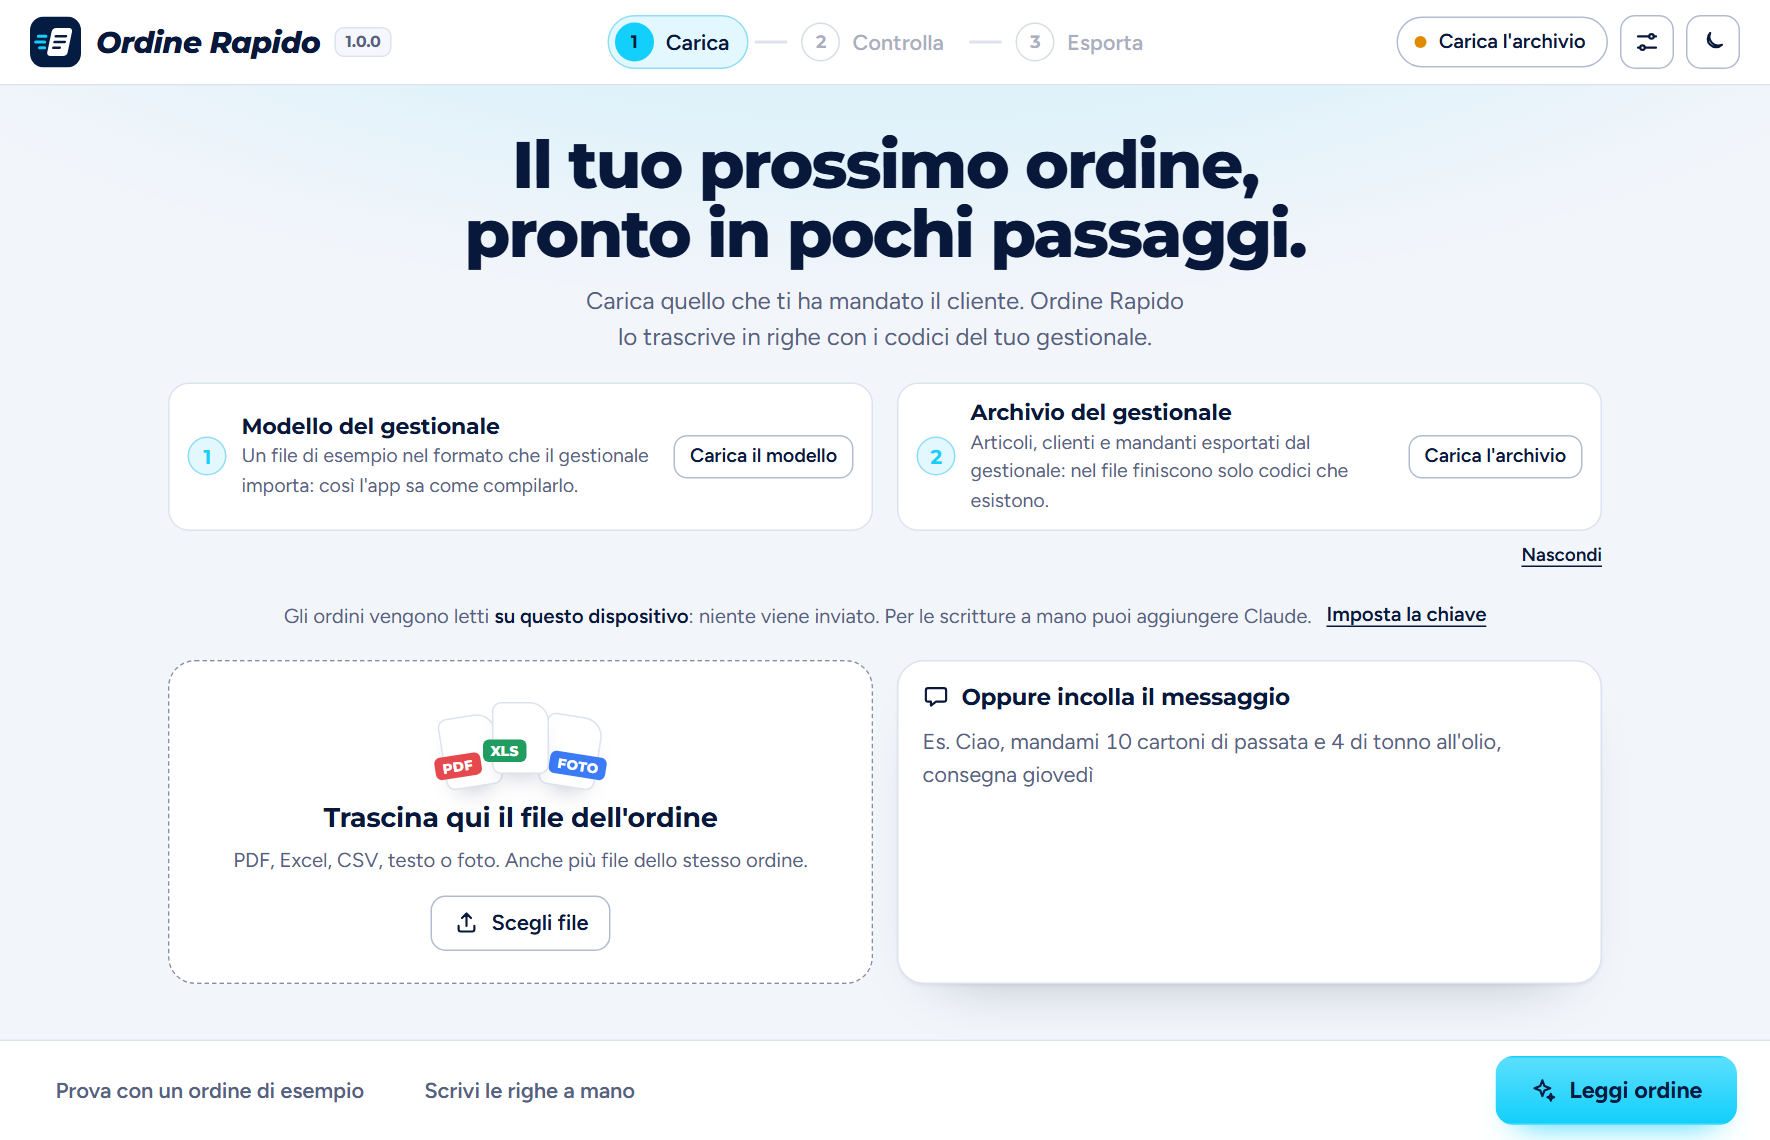
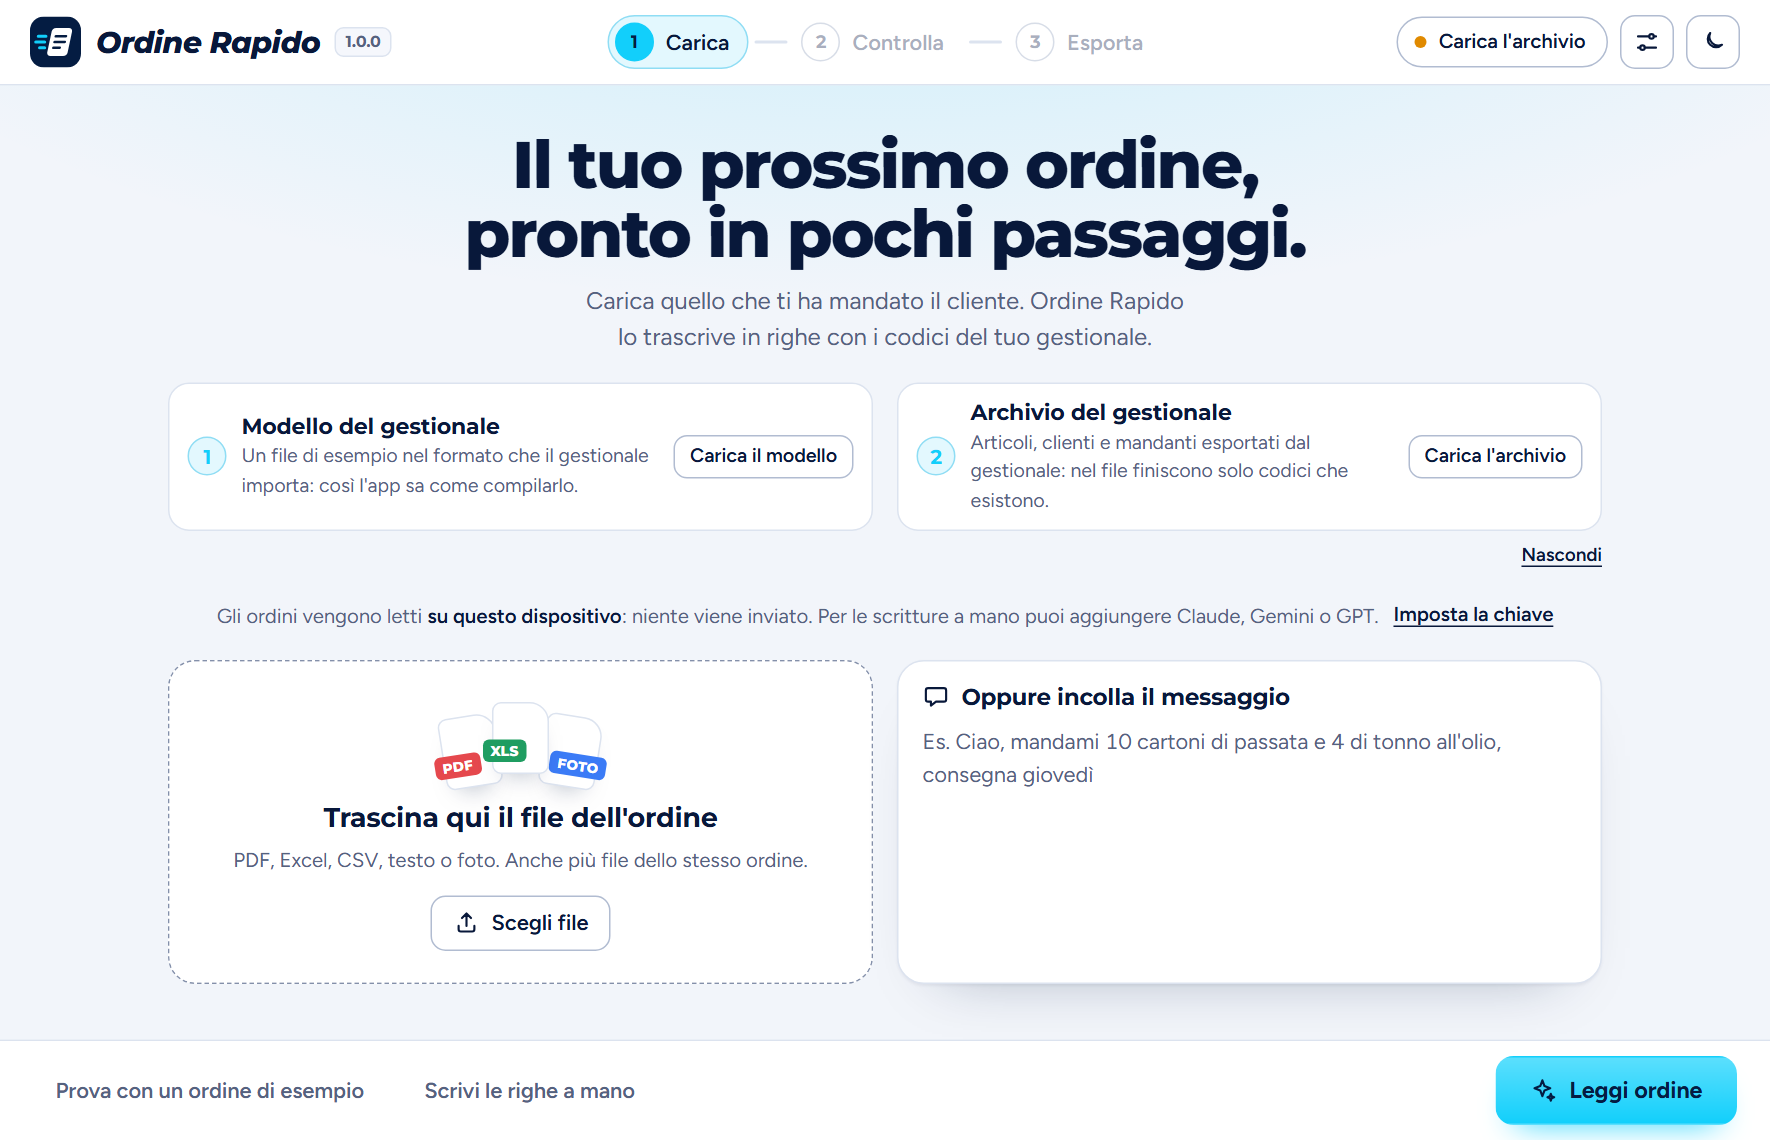
Sito: capitolo sulle ricette dei clienti, Claude Gemini o GPT, lettura automatica
Nuovo capitolo «Ogni ordine che esporti le insegna a leggere il prossimo», con
una ricetta d'esempio. Il riquadro sull'intelligenza artificiale presenta i tre
servizi e la modalità automatica; dati, domande, menu e descrizione aggiornati.
Schermate rifatte sull'app attuale.

Changed region(s): [[0.1243, 0.5219, 0.8701, 0.5526]]

diff --git a/sito/public/index.html b/sito/public/index.html
@@ -12,7 +12,7 @@
 <meta charset="utf-8">
 <meta name="viewport" content="width=device-width, initial-scale=1">
 <title>Ordine Rapido · dall'ordine del cliente al file per il gestionale</title>
-<meta name="description" content="Ordine Rapido trasforma gli ordini dei clienti (PDF, Excel, messaggi, foto) nel file che il tuo gestionale importa, con soli codici che esistono già. Legge sul tuo computer, senza chiave API. Gratuito e libero.">
+<meta name="description" content="Ordine Rapido trasforma gli ordini dei clienti (PDF, Excel, messaggi, foto) nel file che il tuo gestionale importa, con soli codici che esistono già. Legge sul tuo computer, senza chiave API, e impara da ogni ordine. Claude, Gemini o GPT a scelta. Gratuito e libero.">
 <meta name="color-scheme" content="light dark">
 <meta name="theme-color" content="#F6F3EC">
 <link rel="icon" href="marchio.svg" type="image/svg+xml">
@@ -117,6 +117,17 @@ h1 span{display:block;color:var(--muted);font-weight:700}
 .stato b{font:600 15.5px var(--body);color:var(--ink)}
 .stato p{grid-column:2;font-size:14.5px;color:var(--muted);line-height:1.45}
 
+.ricetta{background:var(--card);border:1px solid var(--line);border-radius:16px;box-shadow:var(--shadow);overflow:hidden;transform:rotate(.6deg)}
+.ricetta header{display:flex;justify-content:space-between;align-items:baseline;gap:10px;flex-wrap:wrap;padding:14px 18px;background:var(--ink);color:var(--paper)}
+.ricetta header b{font:800 15.5px var(--display);letter-spacing:-.01em}
+.ricetta header span{font:500 12.5px var(--mono);color:var(--cyan)}
+.ricetta ul{list-style:none;margin:0;padding:8px 18px}
+.ricetta li{display:grid;grid-template-columns:5.5em 1.4em minmax(0,1fr);align-items:center;padding:9px 0;border-bottom:1px dashed var(--line);font-size:15.5px;color:var(--ink)}
+.ricetta li:last-child{border-bottom:0}
+.ricetta code{font:600 14px var(--mono);background:var(--paper-2);border:1px solid var(--line);border-radius:6px;padding:2px 7px;justify-self:start}
+.ricetta i{font-style:normal;color:var(--cyan-ink);font-weight:700}
+.ricetta em{color:var(--muted)}
+.ricetta footer{padding:12px 18px;border-top:1px solid var(--line);background:var(--paper-2);font-size:14px;color:var(--muted)}
 .passi{display:grid;grid-template-columns:repeat(3,minmax(0,1fr));gap:22px;margin-top:40px}
 .passi figure{margin:0}
 .passi img{border:1px solid var(--line);border-radius:12px;box-shadow:var(--shadow);background:var(--card)}
@@ -189,7 +200,7 @@ footer.fine .marchio img{width:28px;height:28px}
     <a class="marchio" href="#" aria-label="Ordine Rapido, inizio pagina"><img src="marchio.svg" alt="" width="38" height="38">Ordine Rapido</a>
     <nav aria-label="Sezioni">
       <a href="#come">Come lavora</a>
-      <a href="#legge">Senza chiave API</a>
+      <a href="#impara">Impara</a>
       <a href="#averla">Come averla</a>
       <a href="#domande">Domande</a>
     </nav>
@@ -209,7 +220,7 @@ footer.fine .marchio img{width:28px;height:28px}
       <dl class="fatti">
         <div><dt>0</dt><dd>chiavi API da comprare: legge da sola, sul tuo computer</dd></div>
         <div><dt>0</dt><dd>codici inventati: nel file solo quelli del tuo archivio</dd></div>
-        <div><dt>3</dt><dd>schermate, sempre le stesse: carica, controlla, esporta</dd></div>
+        <div><dt>1</dt><dd>ordine controllato basta perché il prossimo dello stesso cliente si legga da solo</dd></div>
       </dl>
     </div>
 
@@ -320,8 +331,36 @@ footer.fine .marchio img{width:28px;height:28px}
     </div>
   </section>
 
-  <section class="cap" id="legge" aria-labelledby="h-legge">
+  <section class="cap" id="impara" aria-labelledby="h-impara">
     <div class="num" aria-hidden="true">04</div>
+    <div>
+      <h2 id="h-impara">Ogni ordine che esporti le insegna a leggere il prossimo.</h2>
+      <p class="attacco">Un cliente manda gli ordini quasi sempre nello stesso modo. Quando esporti un suo ordine, Ordine Rapido confronta il documento con il risultato che hai controllato e se ne ricorda la ricetta. Dal secondo ordine in poi, quel cliente si legge da solo.</p>
+      <div class="due">
+        <div class="ricetta" role="img" aria-label="Esempio di ricetta di un cliente: le colonne del suo documento e che cosa contengono.">
+          <header><b>MARKET FANTASIA S.R.L.</b><span>imparata da 3 ordini</span></header>
+          <ul aria-hidden="true">
+            <li><code>Rif.</code><i>→</i>codice articolo</li>
+            <li><code>Merce</code><i>→</i>descrizione</li>
+            <li><code>Q</code><i>→</i>quantità in pezzi</li>
+            <li><code>Cf</code><i>→</i>colli</li>
+            <li><code>Euro</code><i>→</i>prezzo</li>
+            <li><code>Timbro</code><i>→</i><em>da ignorare</em></li>
+          </ul>
+          <footer>Nei messaggi, «passata 10» vuol dire 10 cartoni.</footer>
+        </div>
+        <ul class="punti">
+          <li><b>Impara le colonne strane</b><span>«Q», «Cf», «Euro», «Rif.»: nomi che nessuna regola conosce, ma che dopo un ordine controllato non servono più a niente spiegare.</span></li>
+          <li><b>Impara gli abbinamenti</b><span>La descrizione che il cliente scrive a modo suo si collega da sola all'articolo giusto, anche se una foto ne sbaglia qualche lettera.</span></li>
+          <li><b>Impara come scrive</b><span>Se nei suoi messaggi un numero da solo vuol dire cartoni, la prossima volta lo mette tra i colli senza chiedere.</span></li>
+          <li><b>Resta tutto da te</b><span>Le ricette stanno insieme all'archivio, finiscono nella copia di sicurezza e si dimenticano con un clic.</span></li>
+        </ul>
+      </div>
+    </div>
+  </section>
+
+  <section class="cap" id="legge" aria-labelledby="h-legge">
+    <div class="num" aria-hidden="true">05</div>
     <div>
       <h2 id="h-legge">Legge da sola. Senza chiave API, senza internet, senza costi.</h2>
       <p class="attacco">Non c'è un servizio a cui mandare i documenti dei tuoi clienti. La lettura avviene sul tuo computer, con regole che partono dal tuo archivio. Funziona anche su un PC non recente.</p>
@@ -344,8 +383,9 @@ footer.fine .marchio img{width:28px;height:28px}
             </ul>
           </div>
           <div class="riquadro tenue">
-            <h3>Vuoi di più? Puoi aggiungere Claude</h3>
-            <p>Per le calligrafie difficili e i documenti impaginati in modo insolito puoi far leggere a Claude, con la tua chiave API di Anthropic. È una scelta nelle impostazioni, non un obbligo: senza chiave l'app fa già tutto il resto.</p>
+            <h3>Vuoi di più? Claude, Gemini o GPT, a scelta</h3>
+            <p>Per le calligrafie difficili e i documenti impaginati in modo insolito puoi aggiungere l'intelligenza artificiale che preferisci, con la tua chiave API: <b>Claude</b> di Anthropic, <b>Gemini</b> di Google o <b>GPT</b> di OpenAI, e il modello che vuoi tra quelli del tuo account.</p>
+            <p>In modalità <b>automatica</b> legge prima il tuo computer, e chiede all'intelligenza artificiale solo quando la lettura è incompleta. Paghi e invii qualcosa solo quando serve davvero.</p>
           </div>
         </div>
       </div>
@@ -353,7 +393,7 @@ footer.fine .marchio img{width:28px;height:28px}
   </section>
 
   <section class="cap" aria-labelledby="h-mestieri">
-    <div class="num" aria-hidden="true">05</div>
+    <div class="num" aria-hidden="true">06</div>
     <div>
       <h2 id="h-mestieri">Va bene per ogni tipo di lavoro. Cambiano i dati, non l'app.</h2>
       <p class="attacco">Ordine Rapido non sa niente di pasta o di bulloni: sa leggere un ordine e confrontarlo con un archivio. Quello che vendi lo decidono i file che le carichi.</p>
@@ -369,19 +409,19 @@ footer.fine .marchio img{width:28px;height:28px}
   </section>
 
   <section class="cap" aria-labelledby="h-dati">
-    <div class="num" aria-hidden="true">06</div>
+    <div class="num" aria-hidden="true">07</div>
     <div>
       <h2 id="h-dati">Clienti, listini e ordini restano dove sono: da te.</h2>
       <div class="dati">
         <div><b>Nessun server</b><span>L'app gira sul tuo computer. Non c'è un sito a cui iscriversi né un account da creare.</span></div>
-        <div><b>Niente esce</b><span>Con la lettura sul dispositivo nessun documento viene inviato. Non ci sono statistiche d'uso né tracciamento.</span></div>
+        <div><b>Niente esce, se non vuoi</b><span>Con la lettura sul dispositivo nessun documento viene inviato. Se scegli un'intelligenza artificiale, parte solo verso quella. Non ci sono statistiche d'uso né tracciamento.</span></div>
         <div><b>Codice aperto</b><span>È software libero con licenza GPL-3.0: chiunque può controllare che cosa fa, riga per riga.</span></div>
       </div>
     </div>
   </section>
 
   <section class="cap" id="averla" aria-labelledby="h-averla">
-    <div class="num" aria-hidden="true">07</div>
+    <div class="num" aria-hidden="true">08</div>
     <div>
       <h2 id="h-averla">Quattro forme, la stessa app.</h2>
       <p class="attacco">È gratuita. Scegli la forma più comoda per il computer che usi.</p>
@@ -396,14 +436,14 @@ footer.fine .marchio img{width:28px;height:28px}
   </section>
 
   <section class="cap" id="domande" aria-labelledby="h-domande">
-    <div class="num" aria-hidden="true">08</div>
+    <div class="num" aria-hidden="true">09</div>
     <div>
       <h2 id="h-domande">Quello che conviene sapere prima.</h2>
       <div class="domande">
-        <details><summary>Quanto costa?</summary><p>Niente. È software libero e gratuito. Paghi qualcosa solo se scegli di far leggere gli ordini a Claude: in quel caso il costo di ogni lettura è addebitato da Anthropic alla tua chiave.</p></details>
+        <details><summary>Quanto costa?</summary><p>Niente. È software libero e gratuito. Paghi qualcosa solo se scegli di far leggere gli ordini a un'intelligenza artificiale: in quel caso il costo di ogni lettura lo addebita il servizio scelto (Anthropic, Google o OpenAI) al tuo account. In modalità automatica succede solo quando la lettura del computer non basta.</p></details>
         <details><summary>Con quali gestionali funziona?</summary><p>Con quelli che importano gli ordini da un file CSV o Excel. Il file si adatta caricando un esempio del formato richiesto. È nata lavorando con GesACom, ma non dipende da un gestionale in particolare e non scrive mai dentro il gestionale: prepara il file, l'importazione la fai tu.</p></details>
         <details><summary>Serve internet?</summary><p>No, se legge il tuo computer. Serve solo se scegli Claude.</p></details>
-        <details><summary>E se l'ordine è scritto a mano?</summary><p>La lettura sul computer riconosce bene i documenti stampati, meno la calligrafia. Con un biglietto scritto a penna trova di solito una parte delle righe e te lo segnala: puoi completarle tu, oppure far leggere a Claude.</p></details>
+        <details><summary>E se l'ordine è scritto a mano?</summary><p>La lettura sul computer riconosce bene i documenti stampati, meno la calligrafia. Con un biglietto scritto a penna trova di solito una parte delle righe e te lo segnala: puoi completarle tu, oppure far leggere a Claude, Gemini o GPT.</p></details>
         <details><summary>Posso provarla senza usare dati veri?</summary><p>Sì. C'è un ordine di esempio con dati di fantasia, e la cartella del progetto contiene archivi inventati per fare tutte le prove.</p></details>
         <details><summary>Che cosa succede se sbaglia?</summary><p>Per questo c'è la schermata «Controlla». L'app trascrive e confronta, non decide al posto tuo: una riga che non corrisponde a un articolo del tuo archivio blocca l'esportazione, e ogni supposizione è scritta tra le note.</p></details>
       </div>
